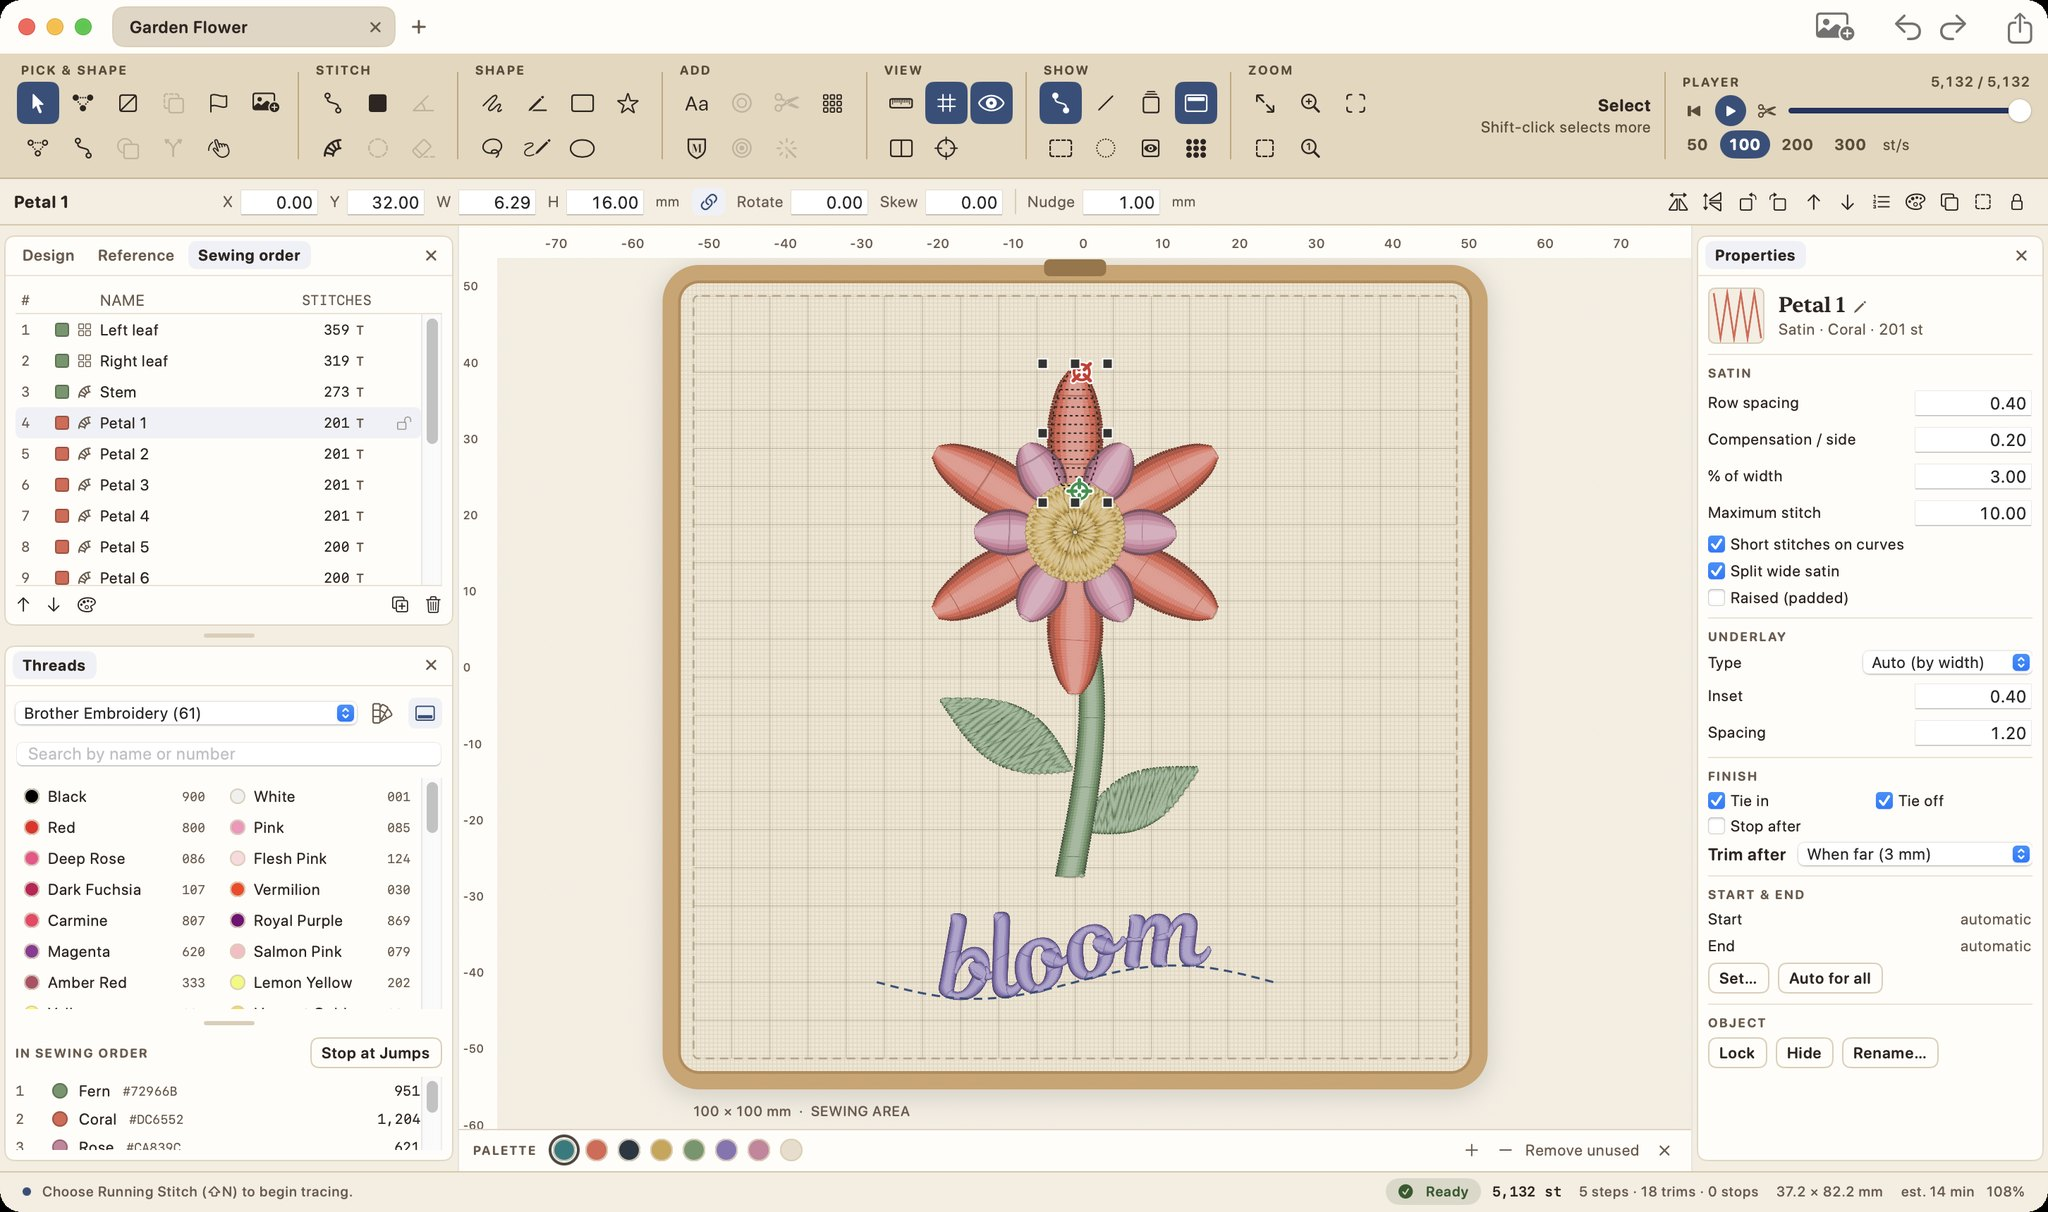
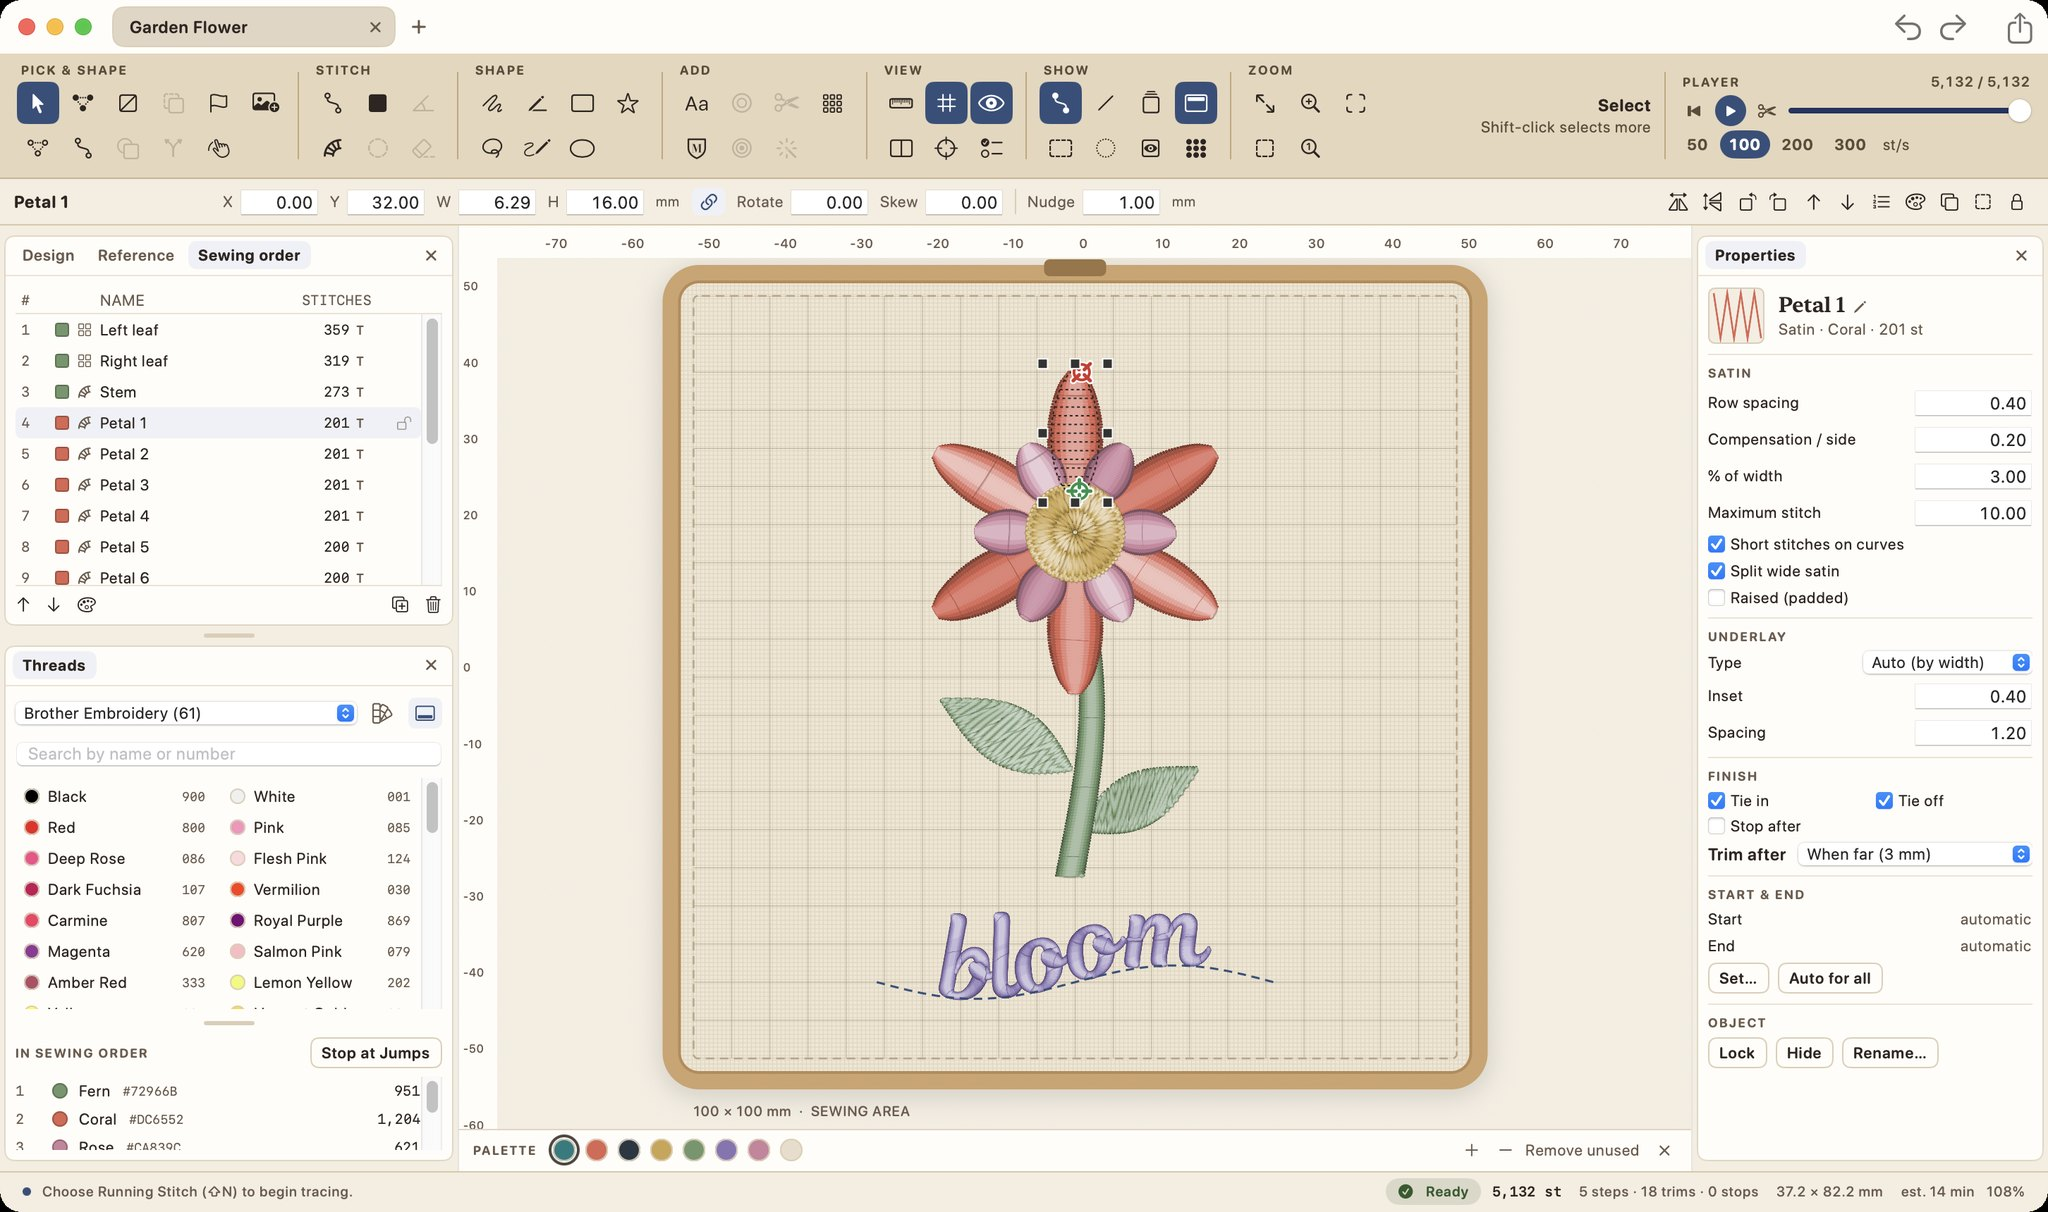
The website offers OpenHoop 0.7.2, its update feed lists it, and the screenshots show the new version
The screenshots show the Review Sewing Order button in the View group and Thread View's new sheen.

diff --git a/website/index.html b/website/index.html
@@ -32,11 +32,11 @@
         <h1 id="hero-title">From an idea to a <em>stitched</em> thing.</h1>
         <p class="hero-intro">That sketch. Your club’s logo. A patch that’s entirely yours. Turn it into machine embroidery, right on your Mac.</p>
         <div class="actions">
-          <a class="button button-gold" href="https://github.com/EvenDog/openhoop/releases/download/v0.7.1/OpenHoop-0.7.1.dmg">Download for Mac</a>
+          <a class="button button-gold" href="https://github.com/EvenDog/openhoop/releases/download/v0.7.2/OpenHoop-0.7.2.dmg">Download for Mac</a>
           <a class="button button-stitched" href="https://github.com/EvenDog/openhoop/blob/main/docs/USER-GUIDE.md">Read the user guide <span aria-hidden="true">↗</span></a>
         </div>
         <p class="source-link"><a href="https://github.com/EvenDog/openhoop#build-and-run">or build from source <span aria-hidden="true">↗</span></a></p>
-        <p class="fine-print">Free &amp; open source · Version 0.7.1 · macOS 14+ · Apple Silicon</p>
+        <p class="fine-print">Free &amp; open source · Version 0.7.2 · macOS 14+ · Apple Silicon</p>
       </div>
 
       <div class="preview-toolbar">
@@ -114,8 +114,8 @@
 
     <section class="band" id="get-started" aria-labelledby="start-title">
       <div class="wrap get-started">
-        <div class="start-main"><p class="kicker">Free to make. Open to everyone.</p><h2 id="start-title">Your next idea belongs in a hoop.</h2><p>OpenHoop is free, open-source software, built for the Mac. Download the app, make something, and help shape what comes next.</p><div class="actions"><a class="button button-denim" href="https://github.com/EvenDog/openhoop/releases/download/v0.7.1/OpenHoop-0.7.1.dmg">Download for Mac</a><a class="button button-stitched" href="https://github.com/EvenDog/openhoop/blob/main/docs/USER-GUIDE.md">Read the user guide <span aria-hidden="true">↗</span></a></div><p class="source-link"><a href="https://github.com/EvenDog/openhoop#build-and-run">or build from source <span aria-hidden="true">↗</span></a></p></div>
-        <aside class="development-note"><p class="kicker">A work in progress</p><h3>Early days. Plenty to make.</h3><p>OpenHoop is in active development. Its designs have been sewn on a Brother SE600, and stitch settings keep improving from version to version.</p><p>Version 0.7.1 is signed and notarized by Apple, so it opens like any other app. You’ll need an Apple Silicon Mac (M1 or newer) running macOS 14 or later. Test-sew a design before stitching on anything precious.</p><a href="https://github.com/EvenDog/openhoop/issues">Share feedback on GitHub <span aria-hidden="true">↗</span></a></aside>
+        <div class="start-main"><p class="kicker">Free to make. Open to everyone.</p><h2 id="start-title">Your next idea belongs in a hoop.</h2><p>OpenHoop is free, open-source software, built for the Mac. Download the app, make something, and help shape what comes next.</p><div class="actions"><a class="button button-denim" href="https://github.com/EvenDog/openhoop/releases/download/v0.7.2/OpenHoop-0.7.2.dmg">Download for Mac</a><a class="button button-stitched" href="https://github.com/EvenDog/openhoop/blob/main/docs/USER-GUIDE.md">Read the user guide <span aria-hidden="true">↗</span></a></div><p class="source-link"><a href="https://github.com/EvenDog/openhoop#build-and-run">or build from source <span aria-hidden="true">↗</span></a></p></div>
+        <aside class="development-note"><p class="kicker">A work in progress</p><h3>Early days. Plenty to make.</h3><p>OpenHoop is in active development. Its designs have been sewn on a Brother SE600, and stitch settings keep improving from version to version.</p><p>Version 0.7.2 is signed and notarized by Apple, so it opens like any other app. You’ll need an Apple Silicon Mac (M1 or newer) running macOS 14 or later. Test-sew a design before stitching on anything precious.</p><a href="https://github.com/EvenDog/openhoop/issues">Share feedback on GitHub <span aria-hidden="true">↗</span></a></aside>
       </div>
     </section>
   </main>
